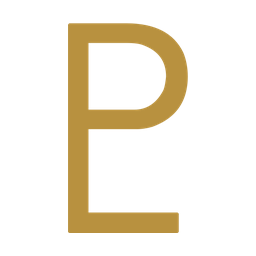
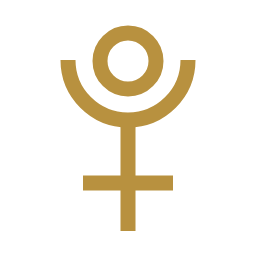
Pluto: the circle in the crescent above a cross
Pluto's picture and list icon now use the astrologers' other glyph, drawn in the same gold
and line weight as the other planets, in place of the "PL" monogram.

Claude-Session: https://claude.ai/code/session_01XEMf5iAfStqwCnALF73gC2

Changed region(s): [[0.2188, 0.0625, 0.7812, 0.9375]]

diff --git a/manuscript/assets/signs/README.md b/manuscript/assets/signs/README.md
@@ -2,7 +2,7 @@
 
 132 gold pictures (512 × 512, transparent), named by their Manuscript page in the Astrology grimoire and shown at the
 top of it: the 12 Western zodiac signs, the four element groups (the alchemical triangles), The Zodiac (all twelve
-around a ring), the Sun, Moon and eight planets, the lunar nodes, Chiron, Lilith, and the twelve Moon-in-a-sign transits
+around a ring), the Sun, Moon and eight planets (Pluto as the circle in the crescent above a cross), the lunar nodes, Chiron, Lilith, and the twelve Moon-in-a-sign transits
 (the crescent beside the sign). Drawn from Noto Sans Symbols (SIL Open Font License); the Sun is a circle and point.
 
 Also: the 12 houses (the chart wheel with that house filled in, house 1 just below the horizon on the left), the moon
